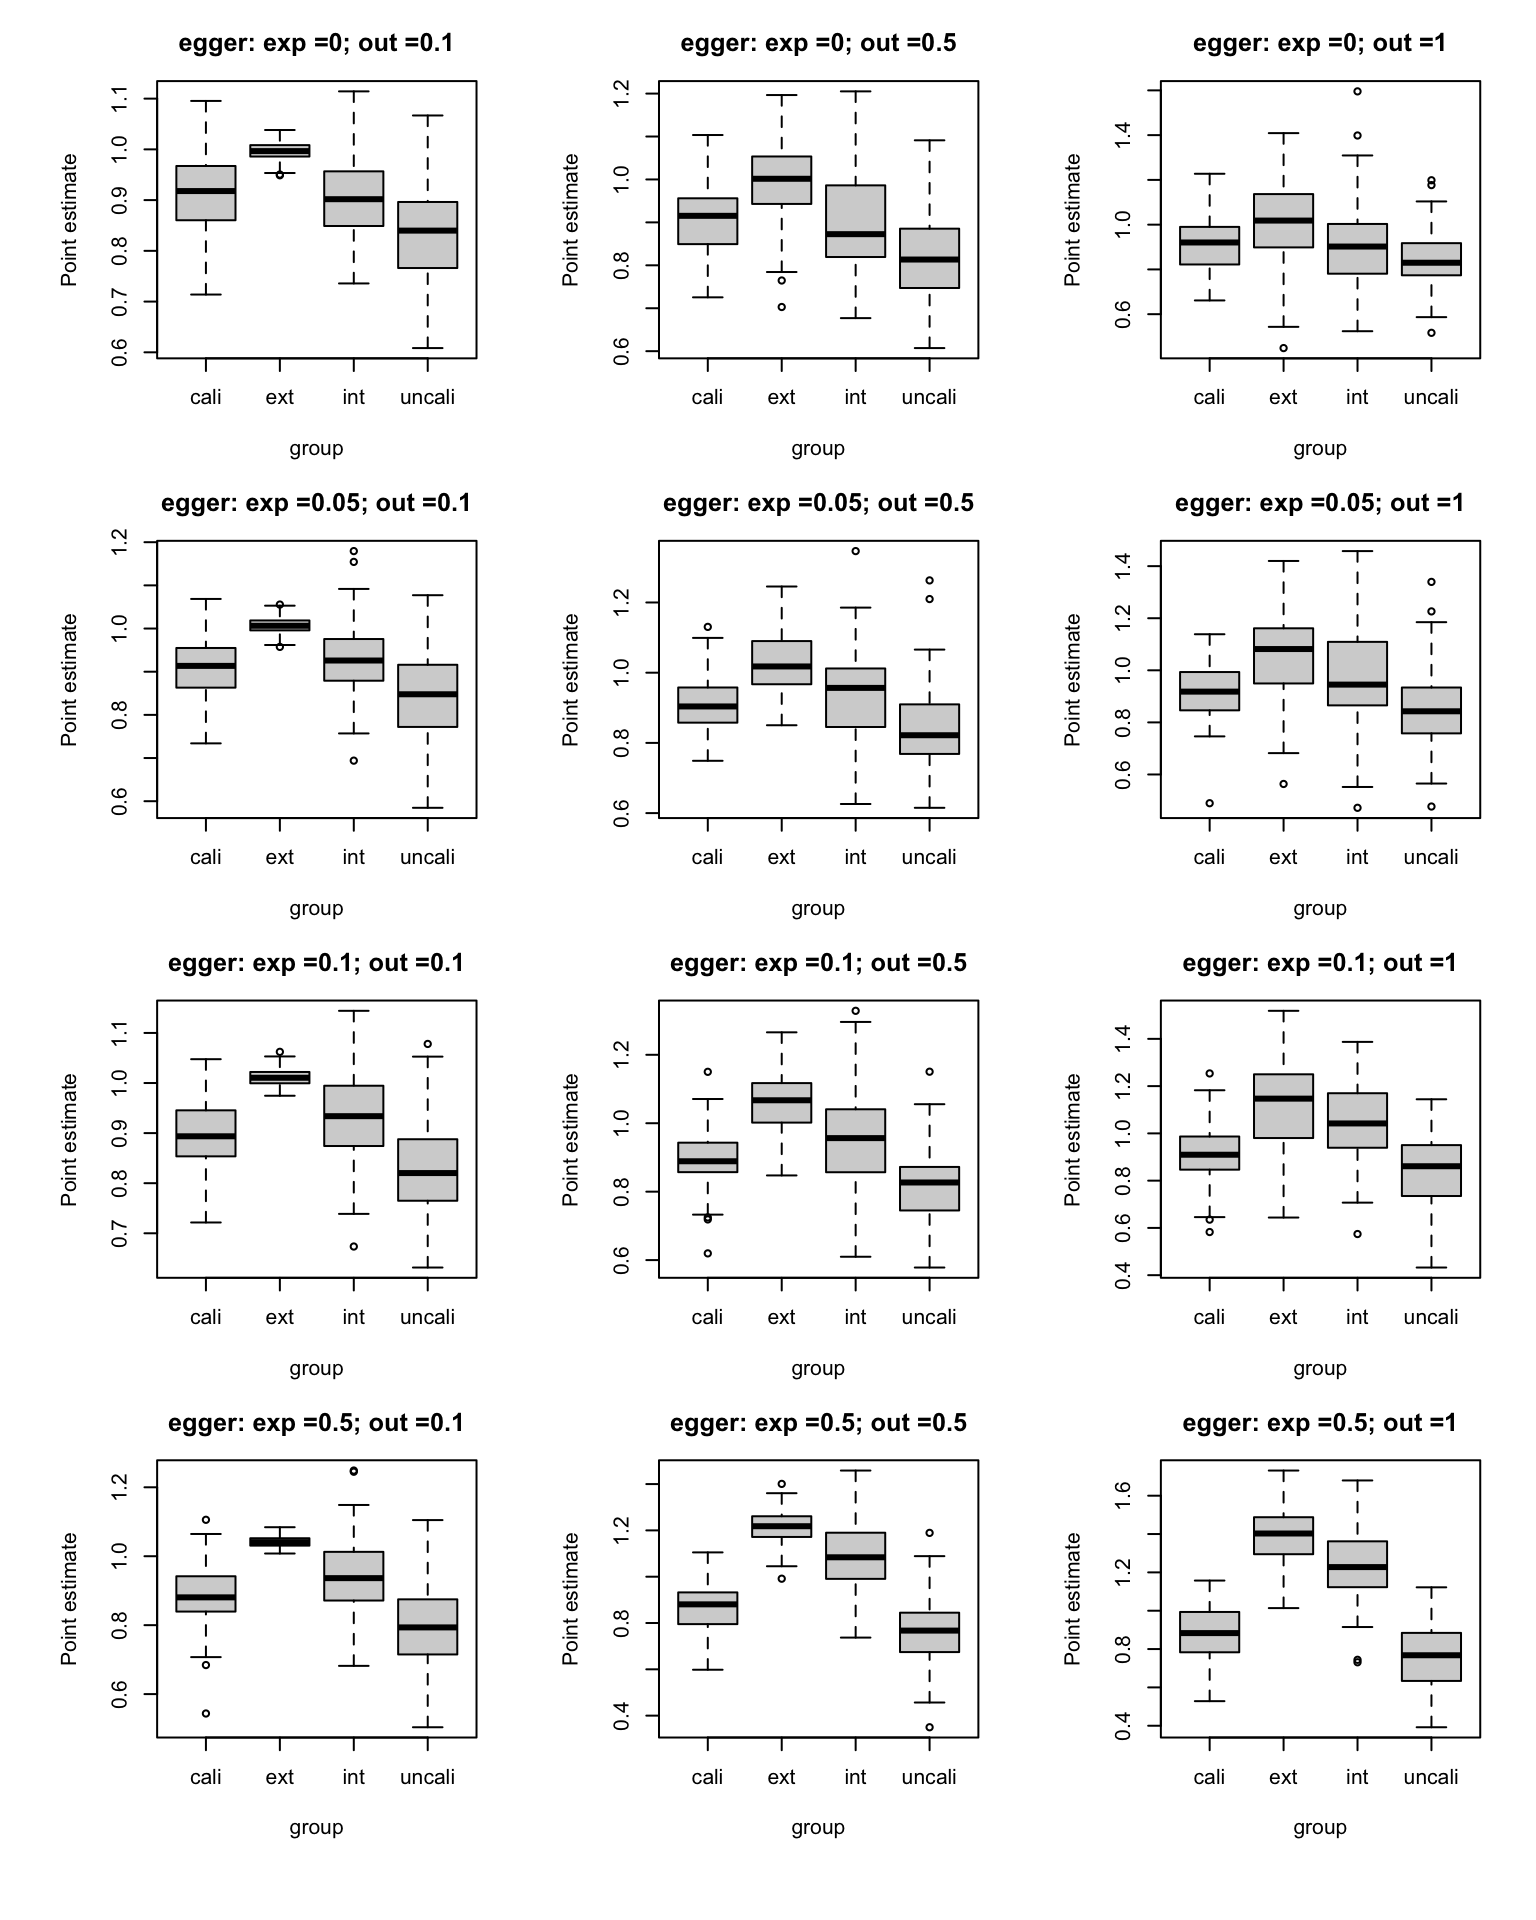
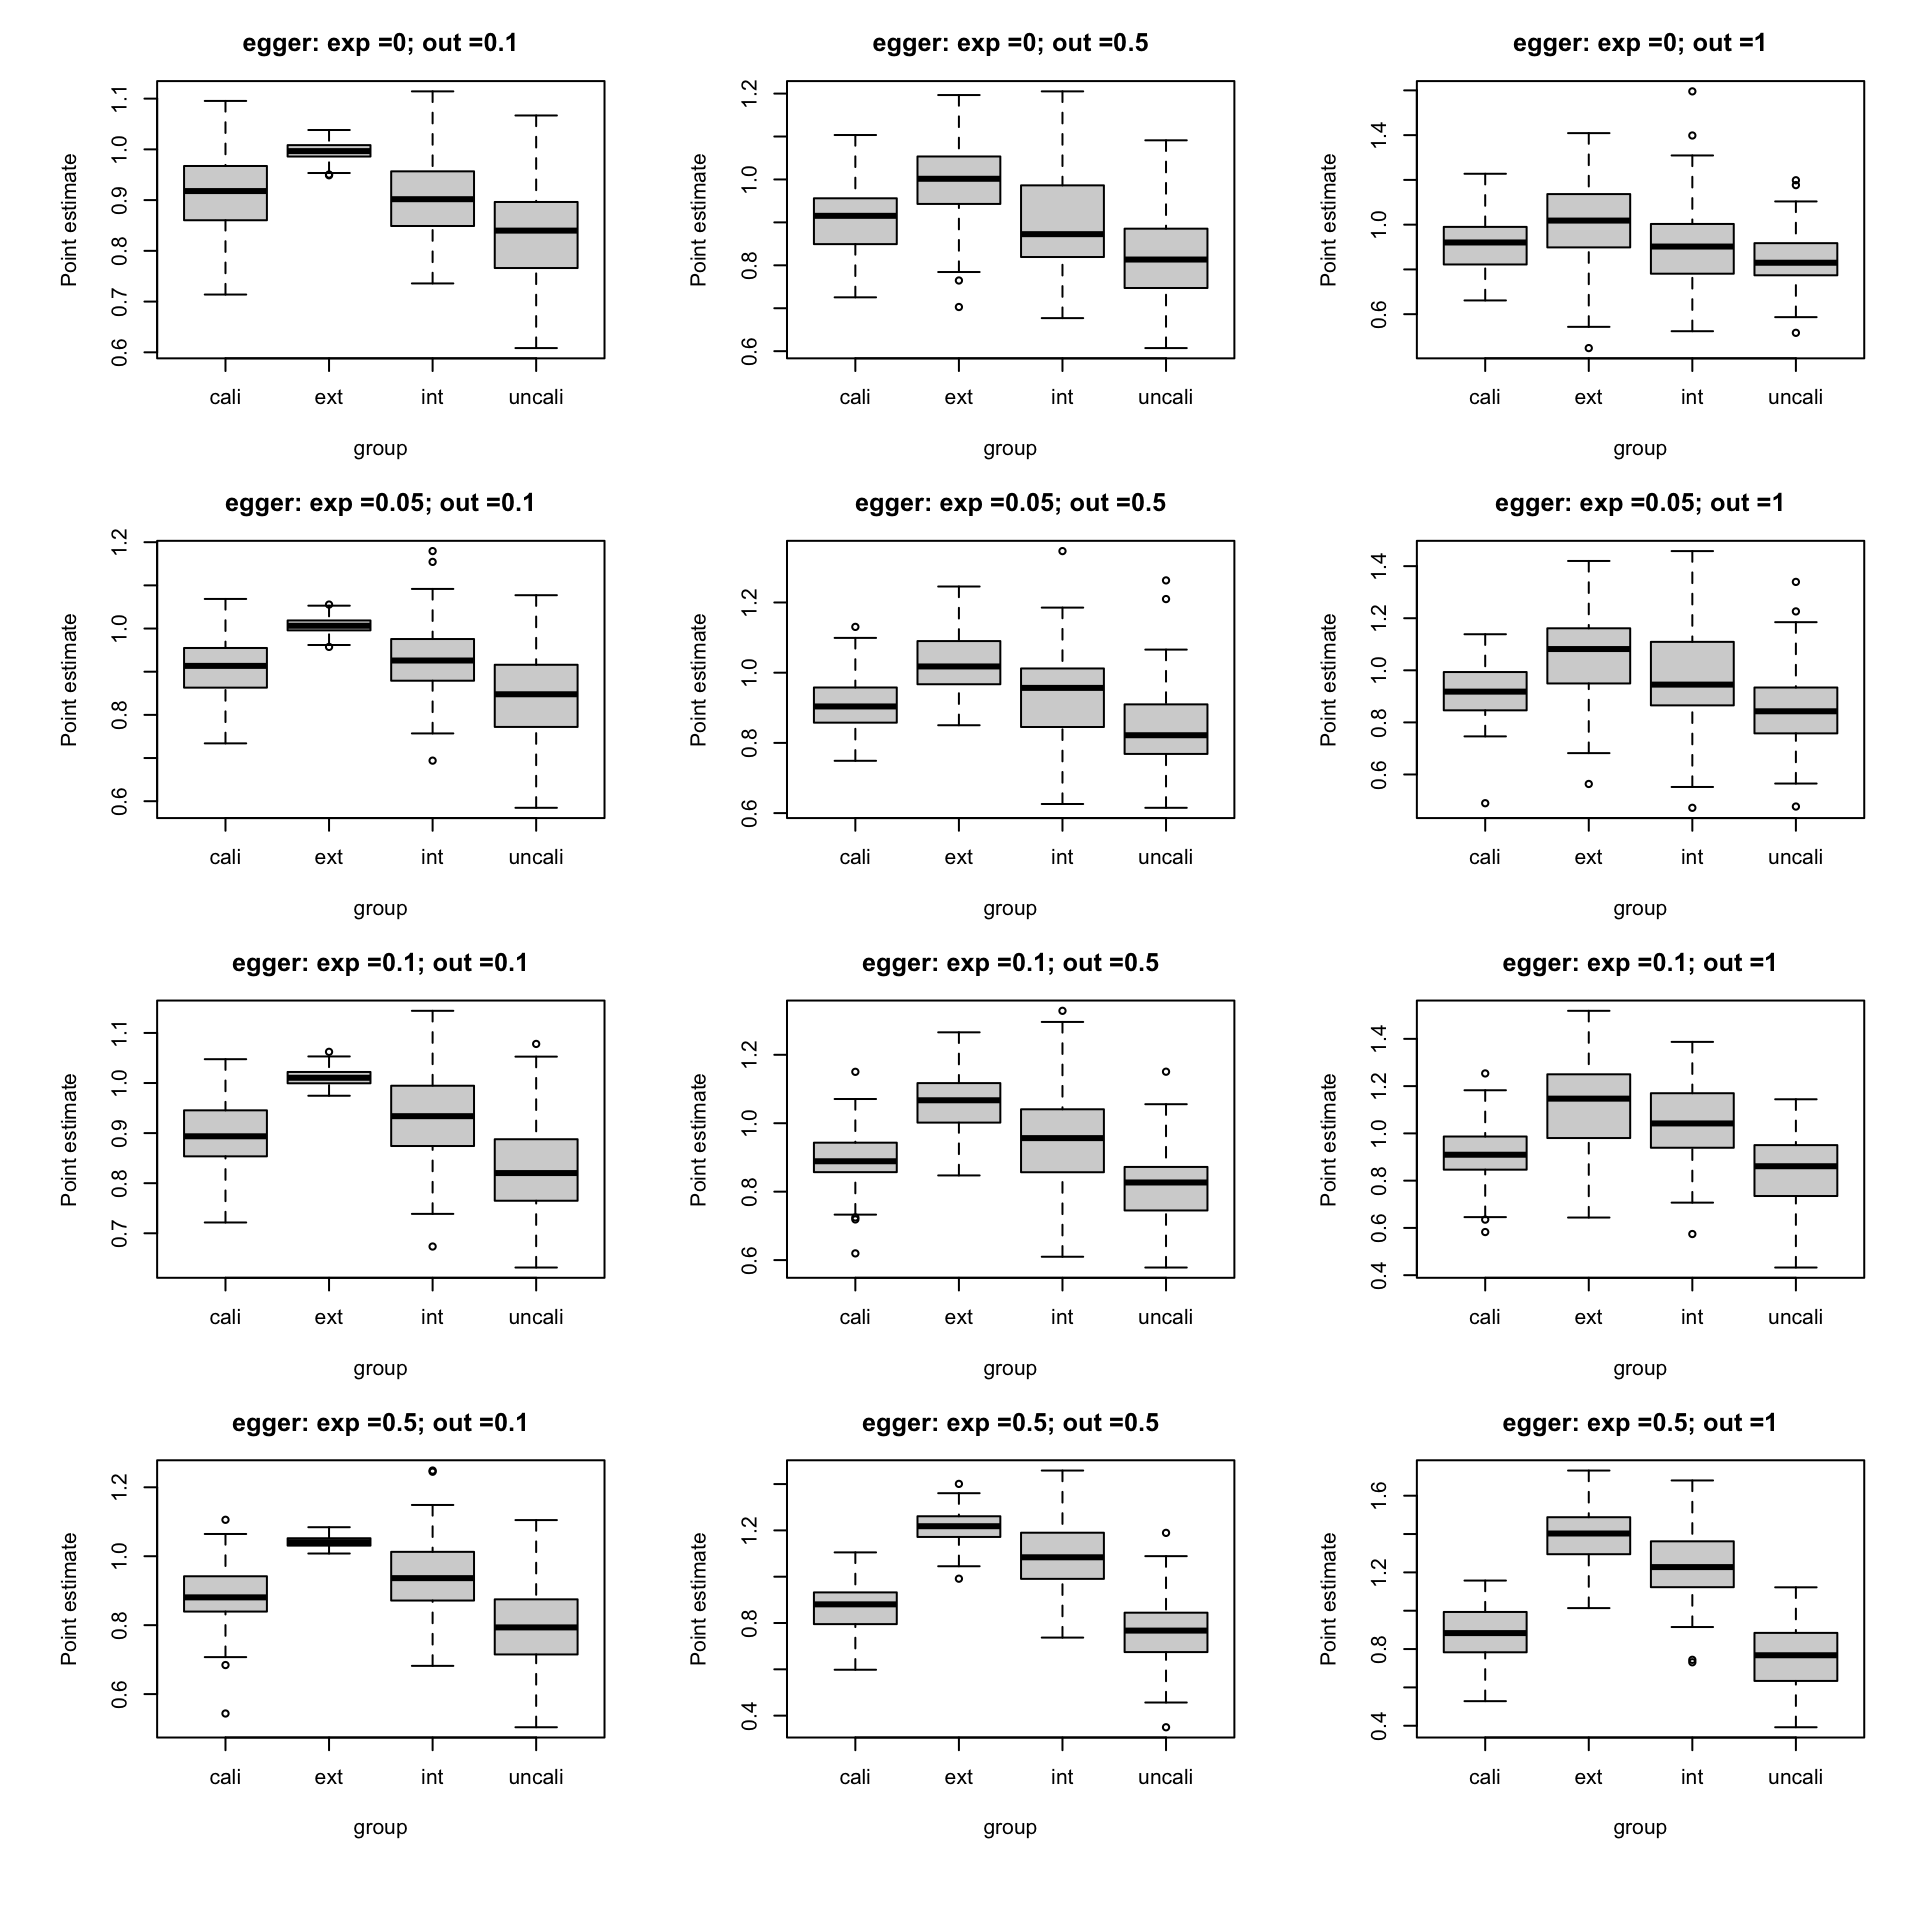
Build site.

diff --git a/docs/mr_result.html b/docs/mr_result.html
@@ -475,16 +475,16 @@ This reproducible <a href="http://rmarkdown.rstudio.com">R Markdown</a> analysis
 <div class="panel panel-default">
 <div class="panel-heading">
 <p class="panel-title">
-<a data-toggle="collapse" data-parent="#workflowr-checks" href="#strongRepositoryversionstrongahrefhttpsgithubcomyunqiyang0215simulationcalibratedmrtree9c95b9af80436fe30941a336cfa89165c4fc78cbtargetblank9c95b9aa"> <span class="glyphicon glyphicon-ok text-success" aria-hidden="true"></span> <strong>Repository version:</strong> <a href="https://github.com/yunqiyang0215/simulation-calibrated-mr/tree/9c95b9af80436fe30941a336cfa89165c4fc78cb" target="_blank">9c95b9a</a> </a>
+<a data-toggle="collapse" data-parent="#workflowr-checks" href="#strongRepositoryversionstrongahrefhttpsgithubcomyunqiyang0215simulationcalibratedmrtreec5acae9483a7818becf1117438244f9704a9097btargetblankc5acae9a"> <span class="glyphicon glyphicon-ok text-success" aria-hidden="true"></span> <strong>Repository version:</strong> <a href="https://github.com/yunqiyang0215/simulation-calibrated-mr/tree/c5acae9483a7818becf1117438244f9704a9097b" target="_blank">c5acae9</a> </a>
 </p>
 </div>
[2 lines of base64/hex data omitted]
 <div class="panel-body">
 <p>
 Great! You are using Git for version control. Tracking code development and connecting the code version to the results is critical for reproducibility.
 </p>
 <p>
-The results in this page were generated with repository version <a href="https://github.com/yunqiyang0215/simulation-calibrated-mr/tree/9c95b9af80436fe30941a336cfa89165c4fc78cb" target="_blank">9c95b9a</a>. See the <em>Past versions</em> tab to see a history of the changes made to the R Markdown and HTML files.
+The results in this page were generated with repository version <a href="https://github.com/yunqiyang0215/simulation-calibrated-mr/tree/c5acae9483a7818becf1117438244f9704a9097b" target="_blank">c5acae9</a>. See the <em>Past versions</em> tab to see a history of the changes made to the R Markdown and HTML files.
 </p>
 <p>
 Note that you need to be careful to ensure that all relevant files for the analysis have been committed to Git prior to generating the results (you can use <code>wflow_publish</code> or <code>wflow_git_commit</code>). workflowr only checks the R Markdown file, but you know if there are other scripts or data files that it depends on. Below is the status of the Git repository when the results were generated:
@@ -540,6 +540,40 @@ Message
 </tr>
 </thead>
 <tbody>
+<tr>
+<td>
+Rmd
+</td>
+<td>
+<a href="https://github.com/yunqiyang0215/simulation-calibrated-mr/blob/c5acae9483a7818becf1117438244f9704a9097b/analysis/mr_result.Rmd" target="_blank">c5acae9</a>
+</td>
+<td>
+yunqiyang0215
+</td>
+<td>
+2023-07-30
+</td>
+<td>
+wflow_publish("analysis/mr_result.Rmd")
+</td>
+</tr>
+<tr>
+<td>
+html
+</td>
+<td>
+<a href="https://rawcdn.githack.com/yunqiyang0215/simulation-calibrated-mr/5a8f7c4e0374ba95e7f9725f84c7d69e68d49b32/docs/mr_result.html" target="_blank">5a8f7c4</a>
+</td>
+<td>
+yunqiyang0215
+</td>
+<td>
+2023-07-30
+</td>
+<td>
+Build site.
+</td>
+</tr>
 <tr>
 <td>
 Rmd
@@ -736,7 +770,7 @@ for (i in 1:length(r1)){
     boxplot(val ~ group, ylab = &quot;Point estimate&quot;, main = paste0(&quot;egger: exp =&quot;, r1[i], &quot;; out =&quot;, r2[j]))
   }
 }</code></pre>
-<p><img src="figure/mr_result.Rmd/unnamed-chunk-3-1.png" width="768" style="display: block; margin: auto;" /></p>
+<p><img src="figure/mr_result.Rmd/unnamed-chunk-3-1.png" width="960" style="display: block; margin: auto;" /></p>
 <p>
 <button type="button" class="btn btn-default btn-xs btn-workflowr btn-workflowr-fig" data-toggle="collapse" data-target="#fig-unnamed-chunk-3-1">
 Past versions of unnamed-chunk-3-1.png
@@ -759,6 +793,17 @@ Date
 </tr>
 </thead>
 <tbody>
+<tr>
+<td>
+<a href="https://github.com/yunqiyang0215/simulation-calibrated-mr/blob/5a8f7c4e0374ba95e7f9725f84c7d69e68d49b32/docs/figure/mr_result.Rmd/unnamed-chunk-3-1.png" target="_blank">5a8f7c4</a>
+</td>
+<td>
+yunqiyang0215
+</td>
+<td>
+2023-07-30
+</td>
+</tr>
 <tr>
 <td>
 <a href="https://github.com/yunqiyang0215/simulation-calibrated-mr/blob/b48456c9c11c93694a897c05e17968d62b6ee494/docs/figure/mr_result.Rmd/unnamed-chunk-3-1.png" target="_blank">b48456c</a>
@@ -821,7 +866,7 @@ for (i in 1:length(r1)){
     boxplot(val ~ group, ylab = &quot;Point estimate&quot;, main = paste0(&quot;egger: exp =&quot;, r1[i], &quot;; out =&quot;, r2[j]))
   }
 }</code></pre>
-<p><img src="figure/mr_result.Rmd/unnamed-chunk-4-1.png" width="768" style="display: block; margin: auto;" /></p>
+<p><img src="figure/mr_result.Rmd/unnamed-chunk-4-1.png" width="960" style="display: block; margin: auto;" /></p>
 <p>
 <button type="button" class="btn btn-default btn-xs btn-workflowr btn-workflowr-fig" data-toggle="collapse" data-target="#fig-unnamed-chunk-4-1">
 Past versions of unnamed-chunk-4-1.png
@@ -844,6 +889,17 @@ Date
 </tr>
 </thead>
 <tbody>
+<tr>
+<td>
+<a href="https://github.com/yunqiyang0215/simulation-calibrated-mr/blob/5a8f7c4e0374ba95e7f9725f84c7d69e68d49b32/docs/figure/mr_result.Rmd/unnamed-chunk-4-1.png" target="_blank">5a8f7c4</a>
+</td>
+<td>
+yunqiyang0215
+</td>
+<td>
+2023-07-30
+</td>
+</tr>
 <tr>
 <td>
 <a href="https://github.com/yunqiyang0215/simulation-calibrated-mr/blob/b48456c9c11c93694a897c05e17968d62b6ee494/docs/figure/mr_result.Rmd/unnamed-chunk-4-1.png" target="_blank">b48456c</a>
@@ -917,7 +973,7 @@ for (i in 1:length(r1)){
     boxplot(val ~ group, ylab = &quot;Point estimate&quot;, main = paste0(&quot;egger: exp =&quot;, r1[i], &quot;; out =&quot;, r2[j]))
   }
 }</code></pre>
-<p><img src="figure/mr_result.Rmd/unnamed-chunk-5-1.png" width="768" style="display: block; margin: auto;" /></p>
+<p><img src="figure/mr_result.Rmd/unnamed-chunk-5-1.png" width="960" style="display: block; margin: auto;" /></p>
 <p>
 <button type="button" class="btn btn-default btn-xs btn-workflowr btn-workflowr-fig" data-toggle="collapse" data-target="#fig-unnamed-chunk-5-1">
 Past versions of unnamed-chunk-5-1.png
@@ -940,6 +996,17 @@ Date
 </tr>
 </thead>
 <tbody>
+<tr>
+<td>
+<a href="https://github.com/yunqiyang0215/simulation-calibrated-mr/blob/5a8f7c4e0374ba95e7f9725f84c7d69e68d49b32/docs/figure/mr_result.Rmd/unnamed-chunk-5-1.png" target="_blank">5a8f7c4</a>
+</td>
+<td>
+yunqiyang0215
+</td>
+<td>
+2023-07-30
+</td>
+</tr>
 <tr>
 <td>
 <a href="https://github.com/yunqiyang0215/simulation-calibrated-mr/blob/b48456c9c11c93694a897c05e17968d62b6ee494/docs/figure/mr_result.Rmd/unnamed-chunk-5-1.png" target="_blank">b48456c</a>
